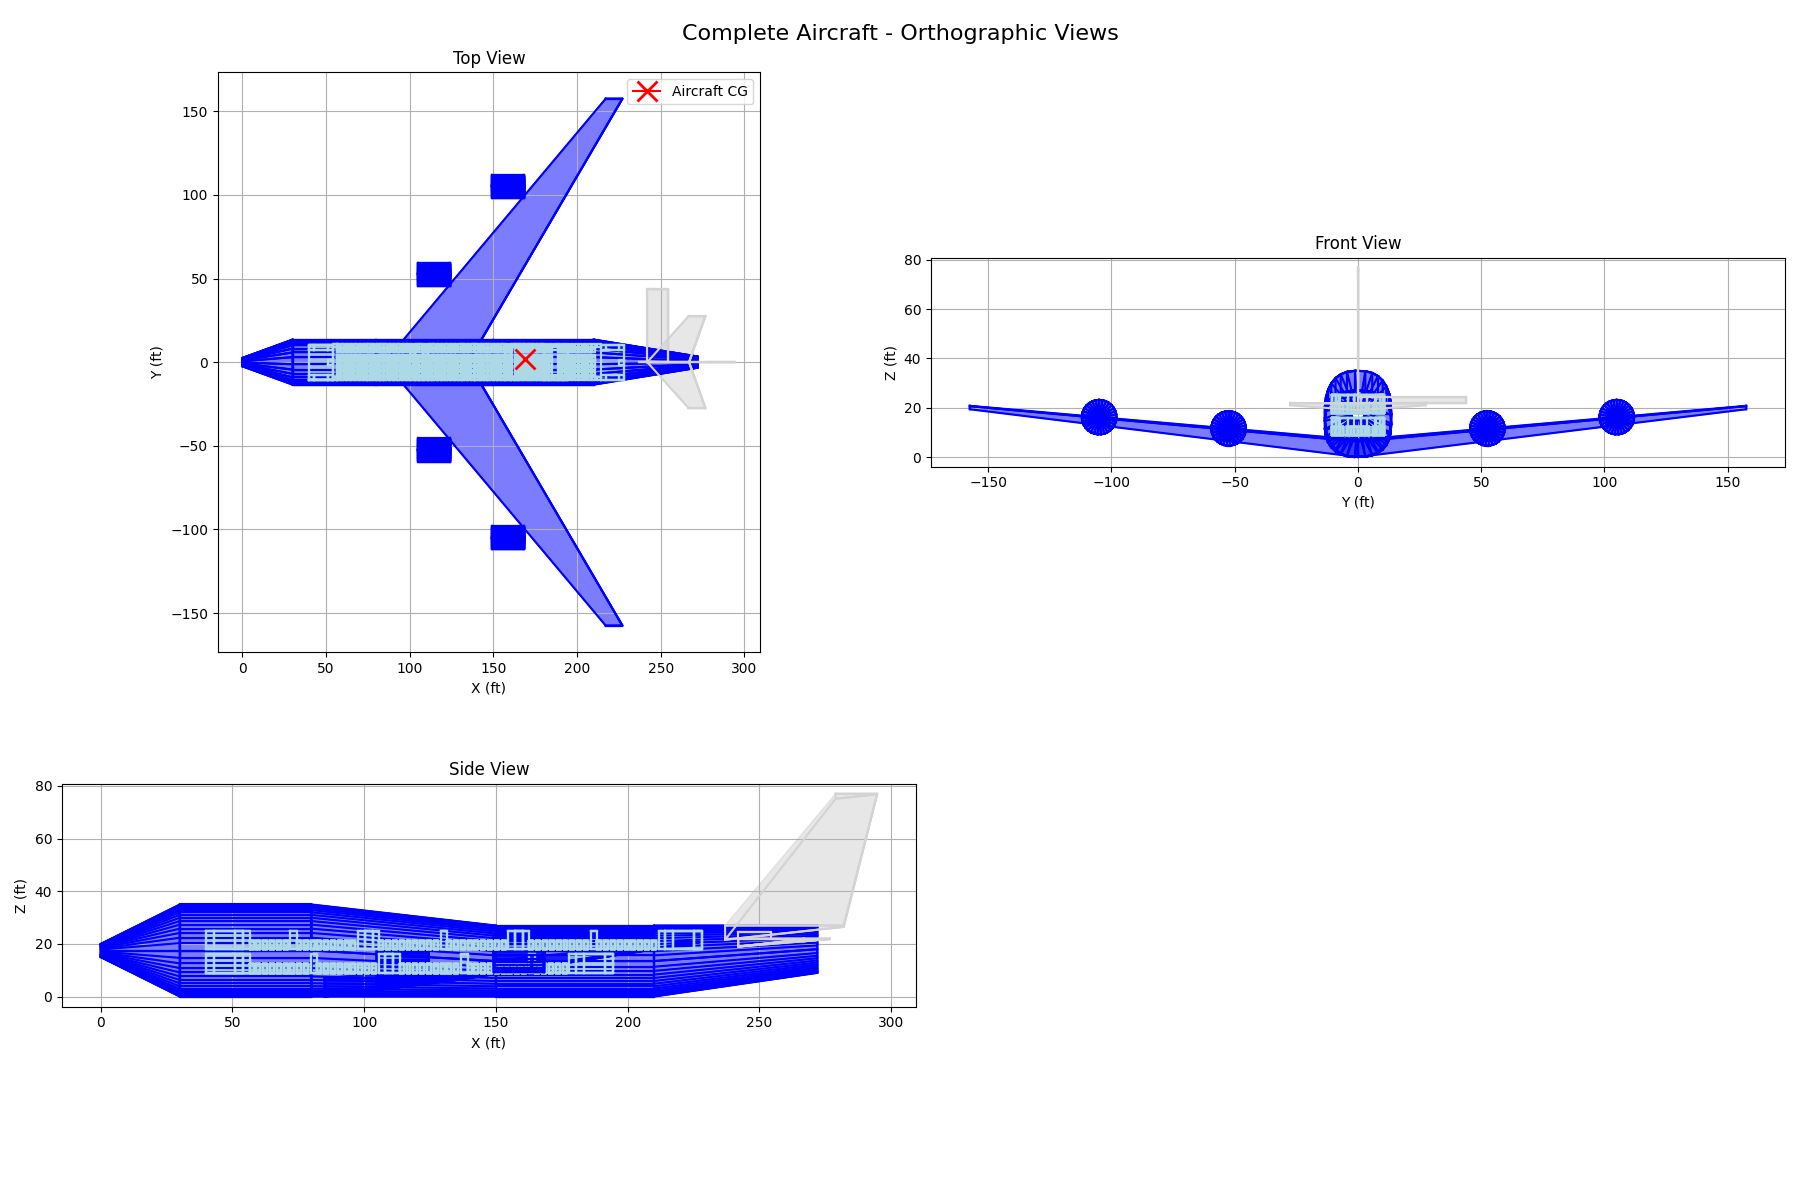
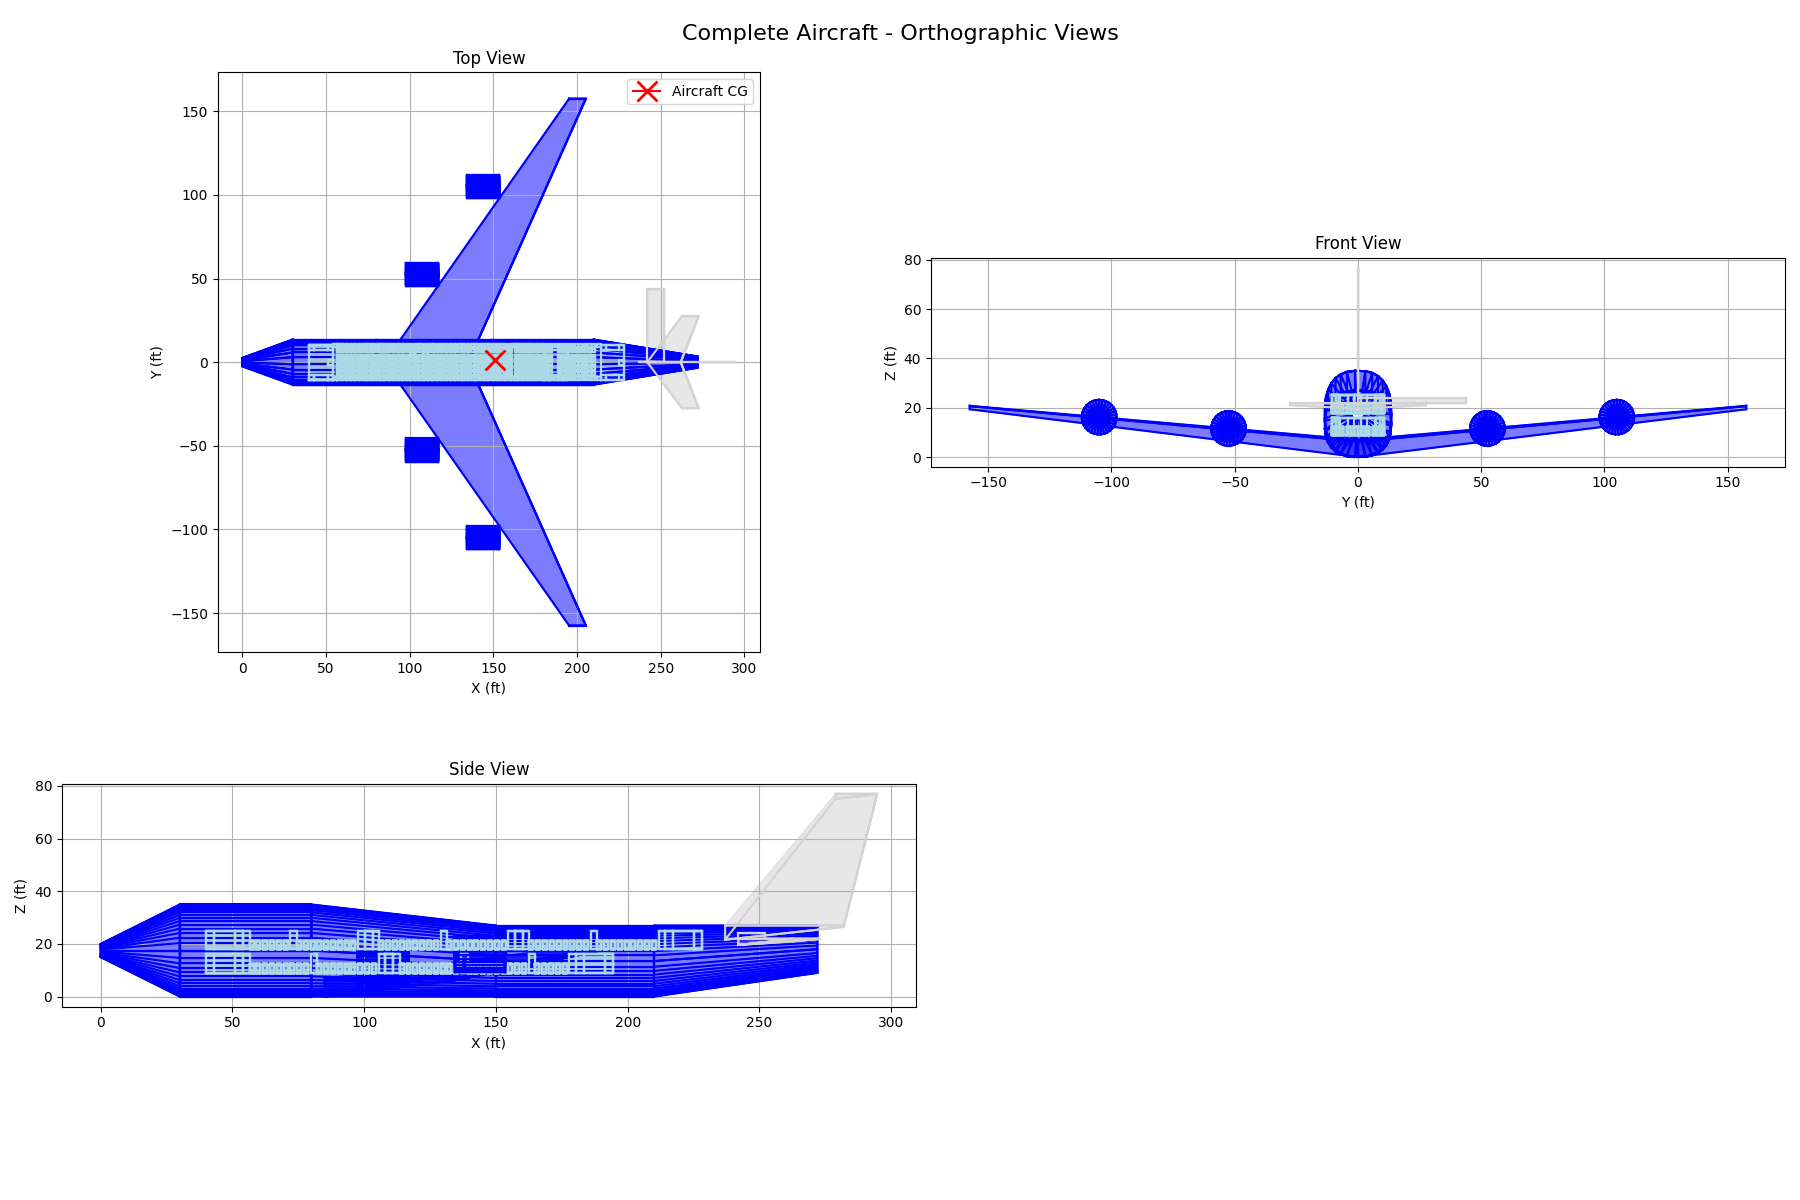
added point mass

diff --git a/aircraft_design/final_design/final_construction.py b/aircraft_design/final_design/final_construction.py
@@ -203,6 +203,19 @@ class Aircraft(Component):
         )
         self.add_child(rear_gear_right)
 
+        # Add point mass 30 feet back from nose in center of fuselage
+        point_mass = MassFeature(
+            mass=2e5,  # 1000 lbs
+            center_of_gravity=[30, 0, 0],  # 30 feet back from nose, centered in y and z
+            ixx=0,  # Point mass has negligible moments of inertia
+            iyy=0,
+            izz=0,
+            ixy=0,
+            ixz=0,
+            iyz=0
+        )
+        self.add_feature(point_mass)
+
         # Add mass analysis
         self.add_analysis(MassAnalysis())
     
